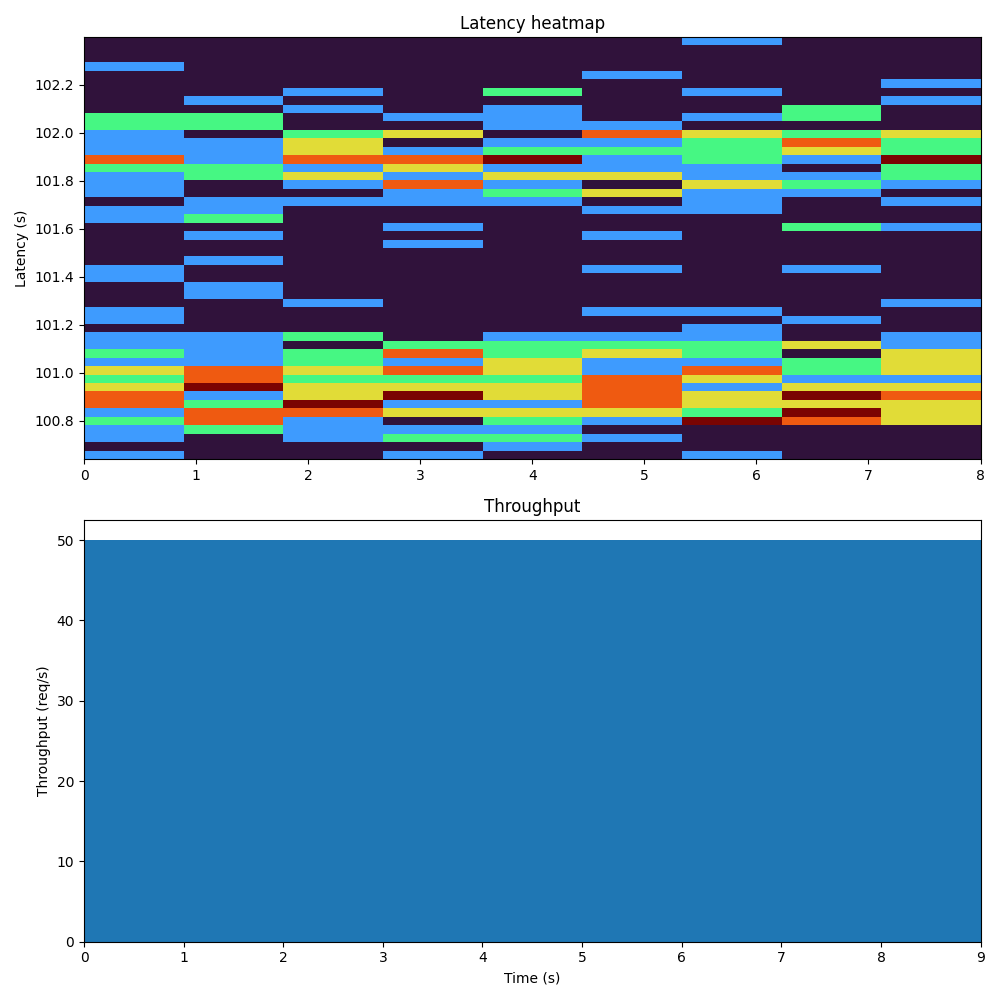
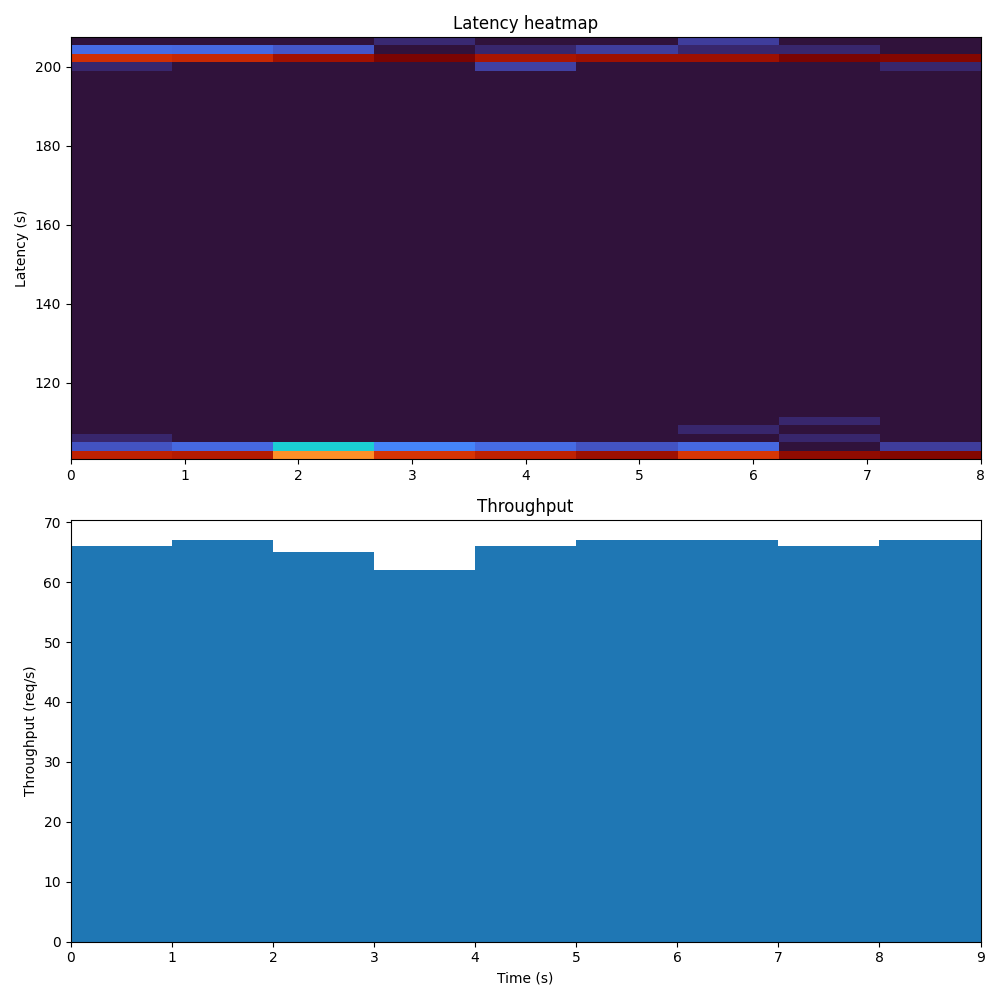
marginal improvements

diff --git a/go-app/app.go b/go-app/app.go
@@ -11,6 +11,11 @@ func hello(w http.ResponseWriter, req *http.Request) {
 	fmt.Fprintf(w, "hello\n")
 }
 
+func hello2(w http.ResponseWriter, req *http.Request) {
+	time.Sleep(200 * time.Millisecond)
+	fmt.Fprintf(w, "hello\n")
+}
+
 func headers(w http.ResponseWriter, req *http.Request) {
 
 	for name, headers := range req.Header {
@@ -22,6 +27,7 @@ func headers(w http.ResponseWriter, req *http.Request) {
 
 func main() {
 	http.HandleFunc("/hello", hello)
+	http.HandleFunc("/hello2", hello2)
 	http.HandleFunc("/headers", headers)
 
 	http.ListenAndServe(":8080", nil)

diff --git a/ruby-app/app.rb b/ruby-app/app.rb
@@ -1,0 +1,6 @@
+require 'sinatra'
+configure { set :server, :puma }
+
+get '/hello' do
+  "Hello World!"
+end
